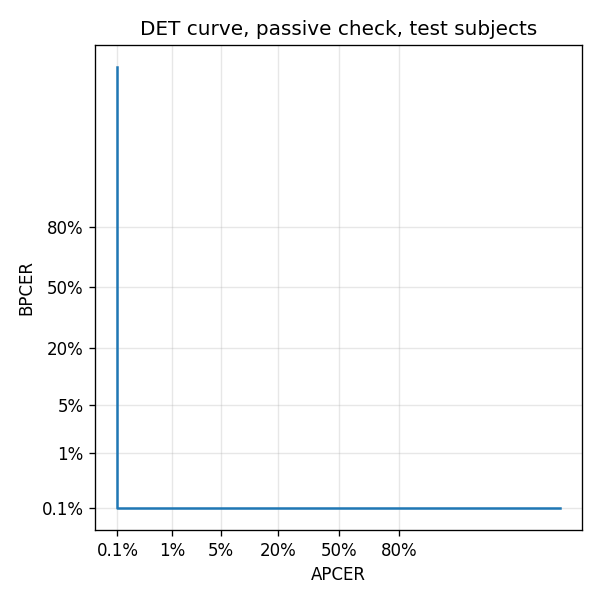
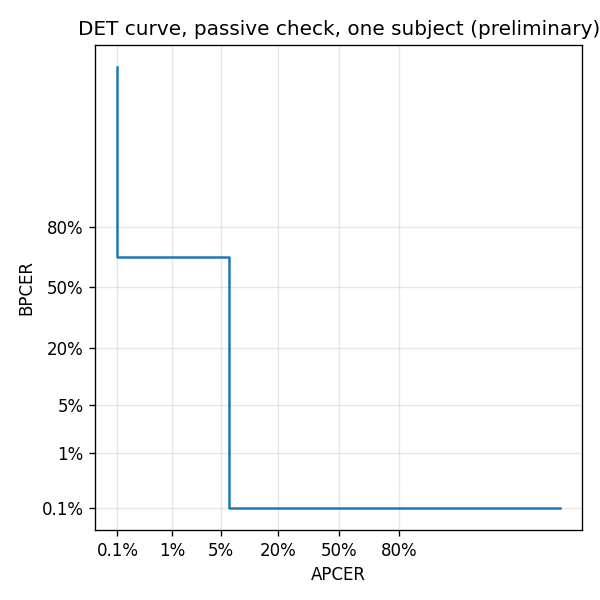
docs: fill the test results with the measures on the first team subject
Single-subject preliminary results of the passive model, the engine-level
PAD campaign, the performance figures and the device scenarios, from the
S10 captures scored and replayed on the machine that recorded them. The
paper mask is reported as a known limitation. The DET title follows
--no-split, and configuration.md names the real source of the defaults.

Changed region(s): [[0.18, 0.42, 0.39, 0.87], [0.12, 0.03, 1.0, 0.06]]

diff --git a/training/scripts/evaluate.py b/training/scripts/evaluate.py
@@ -226,7 +226,7 @@ def equal_error_rate(apcer, bpcer):
     return float((apcer[index] + bpcer[index]) / 2)
 
 
-def plot_det(apcer, bpcer, path):
+def plot_det(apcer, bpcer, path, title="DET curve, passive check, test subjects"):
     import matplotlib
     matplotlib.use("Agg")
     import matplotlib.pyplot as plt
@@ -240,7 +240,7 @@ def plot_det(apcer, bpcer, path):
     axis.set_yticks(norm.ppf(ticks), ["{:g}%".format(t * 100) for t in ticks])
     axis.set_xlabel("APCER")
     axis.set_ylabel("BPCER")
-    axis.set_title("DET curve, passive check, test subjects")
+    axis.set_title(title)
     axis.grid(True, alpha=0.3)
     figure.tight_layout()
     path.parent.mkdir(parents=True, exist_ok=True)
@@ -359,7 +359,8 @@ def main():
     if len(bona) and len(attacks):
         _, apcer_curve, bpcer_curve = det_points(bona, attacks)
         eer = equal_error_rate(apcer_curve, bpcer_curve)
-        plot_det(apcer_curve, bpcer_curve, args.det)
+        title = "DET curve, passive check, " + ("one subject (preliminary)" if args.no_split else "test subjects")
+        plot_det(apcer_curve, bpcer_curve, args.det, title)
         print("DET curve written to {}".format(args.det))
 
     report = {

diff --git a/docs/test-results.md b/docs/test-results.md
@@ -1,6 +1,8 @@
 # Test results
 
-Status on 13 October 2026: skeleton. Nothing has been measured yet. Every value marked "not run" is filled in when the corresponding test is done, following [test-plan.md](test-plan.md). No face image appears in this document.
+Status on 21 October 2026: sections 1, 3, 4 and 5 hold the measures made on the captures of the first team subject (S10, 15 October), with the scores and replays run on the machine that recorded them; only aggregated figures leave that machine. Section 2 and the client-level rows of sections 3 to 5 need the Registration Client signed in to a MOSIP environment: on 21 October the Collab tunnel works and the client starts, but the first sign-in is refused (`KER-SYN-AUTH-001`, machine registration under review by MOSIP). Values marked "not run" are filled in when the test is done, following [test-plan.md](test-plan.md). No face image appears in this document.
+
+**All figures below come from one subject.** They show that the chain works and where it fails; they are not a statistically meaningful error rate. ISO/IEC 30107-3 asks for many subjects and presentation attack instruments before an APCER or a BPCER can be compared with other systems.
 
 ## 1. Passive model on the team dataset
 
@@ -10,62 +12,79 @@ PAD subsystem evaluation (ISO/IEC 30107-3, clause 7.3), computed by `training/sc
 
 | Item | Value |
 | --- | --- |
-| Date | not run |
-| Model set version | not run |
-| Thresholds: pass, attack | not run |
-| Subjects: calibration split, test split | not run |
-| Skin tone bands (MST 1-3, 4-7, 8-10), subjects per band | not run |
-| Cameras and resolutions | not run |
-| Machine for the timings | not run |
+| Date | Captures 15 October 2026, scores computed the same day, evaluation 19 October |
+| Model set version | 1.1.0 (`liveness-engine/src/main/resources/models/models.json`) |
+| Thresholds: pass, attack | 0.85 and 0.30, the defaults of the decision flow, kept (decision of the coordinator on #7, 19 October) |
+| Subjects: calibration split, test split | 1 subject, S10. No held-out subject: `evaluate.py --scores ... --no-split`, figures flagged as preliminary |
+| Skin tone bands (MST 1-3, 4-7, 8-10), subjects per band | Not published: with one subject, the band would describe that person |
+| Cameras and resolutions | Integrated laptop camera, 1280 x 720 requested, 10 frames saved per second |
+| Machine for the timings | Intel Core i7-8550U, 16 GB, Windows 11 Pro, Python 3.10.8 (section 4) |
+| Sequences | 36 of 10 s, about 100 frames each, under the three lighting conditions: 6 `bona_fide`, 3 per attack species, 3 per action. The action sequences are left out of the passive evaluation (a turned head scores low on purpose) and reported in section 1.4 |
 
 ### 1.2 Error rates on the test split
 
 | Type | Sequences | APCER or BPCER | Pass zone | Challenge zone | Attack zone | No decision |
 | --- | --- | --- | --- | --- | --- | --- |
-| `print_matte` | not run | not run | not run | not run | not run | not run |
-| `print_glossy` | not run | not run | not run | not run | not run | not run |
-| `screen_phone` | not run | not run | not run | not run | not run | not run |
-| `screen_laptop` | not run | not run | not run | not run | not run | not run |
-| `replay_video` | not run | not run | not run | not run | not run | not run |
-| `paper_mask` | not run | not run | not run | not run | not run | not run |
-| Highest APCER | | not run | | | | |
-| `bona_fide` (BPCER) | not run | not run | not run | not run | not run | not run |
-| ACER, benchmark figure | | not run | | | | |
+Each sequence is replayed through the passive window of section 4 of the decision flow with the thresholds above; the first decision reached is counted. APCER counts the attacks that end in the pass zone, BPCER the bona fide presentations that end in the attack zone.
 
-DET curve: not run.
+| Type | Sequences | APCER or BPCER | Pass zone | Challenge zone | Attack zone | No decision |
+| --- | --- | --- | --- | --- | --- | --- |
+| `print_matte` | 3 | 0 % | 0 | 0 | 3 | 0 |
+| `print_glossy` | 3 | 0 % | 0 | 0 | 3 | 0 |
+| `screen_phone` | 3 | 0 % | 0 | 0 | 3 | 0 |
+| `screen_laptop` | 3 | 0 % | 0 | 0 | 3 | 0 |
+| `replay_video` | 3 | 0 % | 0 | 0 | 3 | 0 |
+| `paper_mask` | 3 | 33 % (1 of 3) | 1 | 0 | 0 | 2 |
+| Highest APCER | | 33 % (`paper_mask`); 0 % for the five other species | | | | |
+| `bona_fide` (BPCER) | 6 | 0 % | 6 | 0 | 0 | 0 |
+| ACER, benchmark figure | | 17 % with the paper mask, 0 % without | | | | |
+
+Frame scores: median 0.996 for the bona fide frames (0.976 for the lowest sequence), 0.000 for every scored frame of the prints, screens and replayed video, 0.998 for the scored frames of the paper mask. Share of frames that passed the quality checks and received a score: 99 % for the bona fide frames and the prints, 100 % for the phone screen, 54 % for the laptop screen and 37 % for the replayed video (the others rejected for lighting or because no face was found), 15 % for the paper mask (74 % rejected by the head angle check, 6 % with no face found).
+
+**Paper mask: known limitation.** The passive classifier scores a cut-out paper mask worn by another person as a live face. The mask was accepted once (backlight) and stayed without a decision in the two other sequences, where the head angle check rejected most frames. The active check does not stop it either: the wearer blinks and turns the head through the cut-outs. The decision of the coordinator (#7, 19 October) is to report it with its rate, keep the code and thresholds unchanged before the submission, and describe the controls in place and a dedicated mask check as future work in [security-privacy.md](security-privacy.md).
+
+DET curve of the sequence medians, single threshold: [../training/results/chart_det.png](../training/results/chart_det.png). Equal error rate 3 % with the paper mask, 0 % without it (the lowest bona fide median, 0.976, is far above the highest print, screen or video median, 0.000).
 
 ### 1.3 BPCER by condition
 
 | Group | Sequences | BPCER |
 | --- | --- | --- |
-| Light `normal` | not run | not run |
-| Light `low` | not run | not run |
-| Light `backlight` | not run | not run |
-| Skin tone MST 1-3 | not run | not run |
-| Skin tone MST 4-7 | not run | not run |
-| Skin tone MST 8-10 | not run | not run |
+| Light `normal` | 2 | 0 % (median frame score 0.998) |
+| Light `low` | 2 | 0 % (0.997) |
+| Light `backlight` | 2 | 0 % (0.993) |
+| Skin tone MST 1-3 | not run | no subject in this band yet |
+| Skin tone MST 4-7 | not run | the band of the only subject is not published |
+| Skin tone MST 8-10 | not run | the band of the only subject is not published |
 
 ### 1.4 Actions
 
 | Action | Sequences | Detected | Other action detected |
 | --- | --- | --- | --- |
-| `action_blink` | not run | not run | not run |
-| `action_smile` | not run | not run | not run |
-| `action_turn_left` | not run | not run | not run |
-| `action_turn_right` | not run | not run | not run |
+Measured by the coordinator with the Python detectors of `training/liveness/actions.py` on the S10 action sequences (#5, 15 October), and with the engine in section 3.3:
+
+| Action | Sequences | Detected | Other action detected |
+| --- | --- | --- | --- |
+| `action_blink` | 3 | 3 | none |
+| `action_smile` | 3 | 1, with the factor 1.06 on 2 consecutive frames | none |
+| `action_turn_left` | 3 | 3, once performed towards the subject's left | a smile, under 2 conditions of 3 |
+| `action_turn_right` | 3 | 3 | none |
+
+Consequence: `SMILE` was left out of the default challenge types on 16 October (#82); it stays available through `active.challenge_types`. The other factors are those of section 5.3 of the decision flow.
 
 ### 1.5 Time per frame
 
 | Step | Mean time (ms) |
 | --- | --- |
-| Face detection (YuNet) | not run |
-| Landmarks (Face Mesh V2) | not run |
-| Classifiers (two MiniFASNet) | not run |
-| Total | not run |
+| Face detection (YuNet) | 22 to 40, reference figure of `training/README.md` on the same processor |
+| Landmarks (Face Mesh V2) | 14 to 15, same reference |
+| Classifiers (two MiniFASNet) | 11 to 15, same reference |
+| Total | 55.2 over the 3 580 frames of S10: detection, quality checks and the two classifiers, Python, Intel Core i7-8550U. The Java engine: section 4 |
 
 ## 2. Functional test matrix
 
 Cases of [test-plan.md](test-plan.md), section 9 (#27). Workflows: R resident capture, O operator authentication, S supervisor authentication. Online and offline as defined in the plan.
+
+Not run on 21 October: the matrix needs an operator signed in to the Registration Client, and the first sign-in on Collab is refused until MOSIP completes the registration of the machine. The engine behaviour behind F04 to F06 and F09 to F11 is measured on replayed sequences in sections 3 and 5.
 
 | ID | Case | Expected | R online | R offline | O online | O offline | S online | S offline |
 | --- | --- | --- | --- | --- | --- | --- | --- | --- |
@@ -88,56 +107,84 @@ Cases of [test-plan.md](test-plan.md), section 9 (#27). Workflows: R resident ca
 
 Full system evaluation (ISO/IEC 30107-3, clause 7.5), on the complete Registration Client with passive and active checks (#28).
 
+Run on 19 October 2026 at the level of the engine public API: each recorded sequence goes through `LivenessEngine` and a `LivenessSession`, the code the client calls, in real time (frames submitted at their recorded timestamps, so frames are skipped as on a device stream), with `ReplayBenchmarkTest` of `liveness-engine`. The same run through the Registration Client screens waits for the Collab sign-in.
+
 ### 3.1 Context
 
 | Item | Value |
 | --- | --- |
-| Date | not run |
-| Client version, engine version, model set version | not run |
-| Settings different from the defaults | not run |
-| Subjects, attack presenters | not run |
-| Lighting conditions | not run |
-| Cameras, machine | not run |
+| Date | 19 October 2026 |
+| Client version, engine version, model set version | Engine of `main` at 1d95604, model set 1.1.0; client not involved (see above) |
+| Settings different from the defaults | One attempt per sequence. Bona fide and attack sequences: active check disabled, so an ambiguous score would fail rather than go to a challenge. Action sequences: pass threshold 1.0, so that every session goes to the active check, with one challenge of the recorded action |
+| Subjects, attack presenters | 1 subject (S10). Prints, screens and video presented by the subject; paper mask worn by a volunteer who signed the consent form, as no other team member was available (deviation from section 3.2 of the test plan, noted in the local register) |
+| Lighting conditions | `normal`, `low`, `backlight`, one sequence per type and condition |
+| Cameras, machine | Integrated laptop camera; Intel Core i7-8550U, 16 GB, Windows 11 Pro (section 4) |
 
 ### 3.2 Artefact register
 
 | Artefact | Species | Subject | Made with |
 | --- | --- | --- | --- |
-| not run | | | |
+| A01 | Matte print | S10 | Frontal photo of the subject printed on matte paper |
+| A02 | Glossy print | S10 | Same photo printed on glossy paper |
+| A03 | Photo on a phone screen | S10 | Same photo shown full screen on a phone |
+| A04 | Photo on a laptop screen | S10 | Same photo shown full screen on a laptop |
+| A05 | Replayed video | S10 | Short video of the subject played on a phone |
+| A06 | Paper mask | S10 | Matte print with the eyes and mouth cut out, worn by a volunteer |
 
 ### 3.3 Error rates
 
 | Type | Attempts | APCER or BPCER | Challenge rate |
 | --- | --- | --- | --- |
-| `print_matte` | not run | not run | not run |
-| `print_glossy` | not run | not run | not run |
-| `screen_phone` | not run | not run | not run |
-| `screen_laptop` | not run | not run | not run |
-| `replay_video` | not run | not run | not run |
-| `paper_mask` | not run | not run | not run |
-| Highest APCER | | not run | |
-| Bona fide (BPCER) | not run | not run | not run |
-| ACER, benchmark figure | | not run | |
+| Type | Attempts | APCER or BPCER | Challenge rate |
+| --- | --- | --- | --- |
+| `print_matte` | 3 | 0 %, `PAD_ATTACK_DETECTED` in 0.76 to 0.92 s | not applicable, active check disabled for this run |
+| `print_glossy` | 3 | 0 %, detected in 0.83 to 0.92 s | as above |
+| `screen_phone` | 3 | 0 %, detected in 0.77 to 0.92 s | as above |
+| `screen_laptop` | 3 | 0 %, detected in 0.92 to 1.54 s | as above |
+| `replay_video` | 3 | 0 %, detected in 0.86 to 0.93 s | as above |
+| `paper_mask` | 3 | 33 %: passed in 0.91 s under backlight; no decision within the 10 s sequence under normal and low light (still in the passive check) | as above |
+| Highest APCER | | 33 % (`paper_mask`); 0 % for the five other species, 15 of 15 attacks detected | |
+| Bona fide (BPCER) | 3 | 0 %, passed without a challenge in 1.19 to 1.47 s | 0 % |
+| ACER, benchmark figure | | 17 % with the paper mask, 0 % without | |
 
-DET curve: not run.
+Challenges on the bona fide action sequences (one challenge of the recorded action, see the settings):
+
+| Challenge | Attempts | Passed | Failures |
+| --- | --- | --- | --- |
+| `TURN_RIGHT` | 3 | 3, in 4.9 to 6.6 s from the start of the challenge | none |
+| `TURN_LEFT` | 3 | 2, in 4.6 and 7.1 s | backlight: `FACE_CONTINUITY_LOST` after 4.0 s |
+| `BLINK` | 3 | 1, in 3.3 s (backlight) | normal and low light: `CHALLENGE_TIMEOUT` after 8 s |
+
+The two blink timeouts are most likely an effect of the replay rather than of the detector: the subject blinked about 2 s after the start of the recording, as the capture script asks, while the session reaches the challenge only after its passive check and the hold-still phase, about 0.8 s and 0.6 s later; a blink that happens before the instruction is not counted, by design. The Python detectors found the blink in all three sequences when they read them from the start (section 1.4). In the live client the instruction comes first and the person blinks after it.
+
+DET curve: not drawn for this run, which has one attempt per type and condition; see section 1.2.
 
 ## 4. Performance
 
 | Measure | Value |
 | --- | --- |
-| Mean passive decision time | not run |
-| Mean challenge time | not run |
-| Retry rate | not run |
-| Failure rate (bona fide sessions ending in `MAX_ATTEMPTS_EXCEEDED`) | not run |
-| CPU of the client during a session | not run |
-| Memory of the client during a session | not run |
-| Machine: processor, memory, operating system, camera | not run |
+Measured on 19 October 2026 with the run of section 3 (`ReplayBenchmarkTest`, 30 sequences, 551 analysed frames), on the machine that recorded the captures.
+
+| Measure | Value |
+| --- | --- |
+| Mean analysis time of one frame (decode, detection, quality, classifiers, and the landmarks during a challenge) | 56.4 ms over the 551 frames, 54.4 to 59.1 ms per run, against the 100 ms of section 5.3 of the decision flow. The first sequence of each run takes 73 to 114 ms: start of a new JVM |
+| Mean passive decision time | Live face: 1.31 s (1.19 to 1.47 s, 3 sessions). Attack: 0.91 s (0.76 to 1.54 s, 15 sessions) |
+| Mean challenge time | 5.3 s from the start of the challenge to `PASSED` (3.3 to 7.1 s, 6 challenges), hold-still phase included |
+| Retry rate | Not measured: the replay uses one attempt per sequence. Needs client sessions |
+| Failure rate (bona fide sessions ending in `MAX_ATTEMPTS_EXCEEDED`) | Not measured, as above. First-attempt failure of the bona fide replays: 3 of 12, all in challenges (2 replay effects on `BLINK`, 1 `FACE_CONTINUITY_LOST`) |
+| CPU of the client during a session | Engine process during analysis: 1.9 to 3.1 cores of the 8 logical processors (194 to 309 % of one core); about 1 core when most frames are rejected before the classifiers (paper mask) |
+| Memory of the client during a session | Java heap used after each sequence: 22 to 99 MB. The native memory of ONNX Runtime (models and inference buffers) is not included |
+| Machine: processor, memory, operating system, camera | Intel Core i7-8550U (4 cores, 8 threads, 1.8 GHz), 16 GB, Windows 11 Pro 10.0.26300, integrated camera; mains power, Windows power plan "Balanced"; JDK 11.0.32 (Temurin) |
+
+Second machine, for comparison (14 October): Intel Core Ultra 7 155H, 16 GB, Windows 11 Pro, JDK 11, power mode "Best performance", one sample image analysed repeatedly: 60 ms per frame in the passive check, 69 ms during a challenge. With the "Balanced" mode and other applications open, the same machine took 190 and 320 ms: on hybrid processors, Windows can run a background Java process on the efficiency cores. The power mode is worth setting on registration workstations.
+
+The device stream of the simulated device in webcam mode reached 6 to 8 frames per second on the first machine (#17), below the 10 analysed frames per second the engine can handle; the analysis rate then follows the stream.
 
 ## 5. Replay automation and SBI interoperability
 
 | Test | Result |
 | --- | --- |
-| Recorded sequences replayed through the simulated device, decisions identical to the live run | not run |
+| Recorded sequences replayed through the simulated device, decisions identical to the live run | Device side: section 5.1. Engine decisions on the same sequences: section 3. Comparison through the client: not run |
 | Stream of the simulated device received by the client without mirroring | not run |
 | Stream kept running during `RCAPTURE` | not run |
 | Capture response signature validated by the client | not run |
@@ -145,13 +192,30 @@ DET curve: not run.
 
 ### 5.1 Device-level scenarios, automated
 
-`mock-sbi/scripts/replay_scenarios.py` starts the simulated device in `replay` mode on a recorded sequence, calls it as the Registration Client does (MOSIPDINFO, MOSIPDISC, STREAM, RCAPTURE), checks the stream and the capture against the expected behaviour and stops the device, once per SBI specification version and per device configuration. Run of 19 October 2026 on sequences built from the sample images of the reference project (no team capture yet; one image repeated 30 times at 10 frames per second, 3 s long), observation of 6 s, JDK 11, Windows 11:
+`mock-sbi/scripts/replay_scenarios.py` starts the simulated device in `replay` mode on a recorded sequence, calls it as the Registration Client does (MOSIPDINFO, MOSIPDISC, STREAM, RCAPTURE), checks the stream and the capture against the expected behaviour and stops the device, once per SBI specification version and per device configuration, without manual action.
 
-| Scenario | Expected | SBI 0.9.5, recorded timestamps | SBI 0.9.5, 5 frames per second | SBI 1.0, recorded timestamps | SBI 1.0, 5 frames per second |
-| --- | --- | --- | --- | --- | --- |
-| Frozen image (`end=hold`) | frames stop changing, RCAPTURE succeeds | pass | pass | pass | pass |
-| Disconnection (`end=stop`) | stream ends after the sequence | pass | pass | pass | pass |
-| Corrupted frames (`corrupt.every=3`) | incomplete JPEG frames on the stream | pass (31 of 95) | pass | pass | pass |
-| Live face, photo, screen, replayed video, no face, two faces | engine decision on the replayed frames | to run on the team sequences | | | |
+Run of 19 October 2026 on the S10 sequences, on the machine that recorded them (JDK 11, Windows 11), observation of 8 s per run. SBI versions 0.9.5 and 1.0, the two supported by Registration Client 1.2.0.2; device configurations: recorded timestamps, and a fixed 5 frames per second.
 
-The two specification versions supported by Registration Client 1.2.0.2 are echoed in the RCAPTURE response with an ISO/IEC 19794-5 record. The engine decisions on replayed sequences are measured by `ReplayBenchmarkTest` of the engine (section 4) once the team sequences are available.
+| Scenario | Sequence | Expected | 0.9.5, timestamps | 0.9.5, 5 per second | 1.0, timestamps | 1.0, 5 per second |
+| --- | --- | --- | --- | --- | --- | --- |
+| Live face | `bona_fide` | frames change, RCAPTURE returns an ISO/IEC 19794-5 record with the version echoed | pass | pass | pass | pass |
+| Live face, blink challenge | `action_blink` | as above | pass | pass | pass | pass |
+| Photo | `print_matte` | as above | pass | pass | pass | pass |
+| Screen | `screen_phone` | as above | pass | pass | pass | pass |
+| Replayed video | `replay_video` | as above | pass | pass | pass | pass |
+| Corrupted frames | `bona_fide`, every third frame truncated | incomplete JPEG frames on the stream | pass (80 of 240) | pass | pass | pass |
+
+24 of 24 runs passed. The stream carried 208 to 241 frames in 8 s, 80 distinct frames at the recorded timestamps and 40 at 5 per second, as expected from the pacing of section `replay` of `mock-sbi/README.md`.
+
+End of sequence, at 30 frames per second so that the 99-frame sequence ends after 3.3 s, within the observation:
+
+| Scenario | Expected | 0.9.5 | 1.0 |
+| --- | --- | --- | --- |
+| Disconnection (`end=stop`) | the stream ends after the sequence | pass, ended after 3.4 s | pass, ended after 3.4 s |
+| Frozen image (`end=hold`) | the last frame repeats | fail on the verdict, see below | fail on the verdict |
+
+The frozen stream behaved as specified (the last frame kept coming after 3.3 s), but the verdict of that run expected one distinct frame over the whole observation. The review of that run (#29, 19 October) also found that the STREAM request asked for a 10 s timeout, so observations longer than 10 s saw the stream end, and that RCAPTURE still returned a record after `end=stop`. All three are fixed after that run: the verdict now looks at the last 1.5 s of the observation, the STREAM timeout follows the observation, and an unplugged replay refuses the capture. These two end cases are to be run again on the S10 sequences.
+
+"No face" and "two faces" sequences are not part of the capture protocol and were not recorded. Their engine behaviour (guidance `NO_FACE` and `MULTIPLE_FACES`, then `FACE_CONTINUITY_LOST` during a challenge) is covered by the session tests of the engine (`SessionCorePassiveTest`, `SessionCoreActiveTest`, #15).
+
+Earlier run, 19 October, on sequences built from the sample images of the reference project (one image repeated, 3 s long, observation of 6 s, on another machine): frozen image, disconnection and corrupted frames passed for both versions and both configurations, 12 of 12.

diff --git a/docs/configuration.md b/docs/configuration.md
@@ -13,7 +13,7 @@ In Registration Client 1.2.0.2:
 The liveness configuration follows the same path. A small provider in the client (`LivenessConfigProvider`, #21) reads the keys of this document, applies the per-workflow overrides and builds the policy given to the engine.
 
 - **Offline.** The client uses the values of its last synchronisation. Liveness behaves the same online and offline.
-- **Missing key.** On a first installation, or with a server that does not know the keys yet, the engine applies the defaults it ships with (`liveness-defaults.properties` inside the engine JAR, #7). These defaults are the values of the table below.
+- **Missing key.** On a first installation, or with a server that does not know the keys yet, the engine applies the defaults it ships with (`LivenessPolicy.defaults()`, in the engine JAR; the thresholds were confirmed on the team captures in #7). These defaults are the values of the table below.
 - **Invalid value.** A value that cannot be read or breaks a rule of section 3 is ignored. The engine default applies and the client writes a warning to its log, with the key and the value. One exception: a value of `on_max_attempts` that cannot be read gives `BLOCK`, not the default `EXCEPTION` of residents, so that it never opens the exception process. A wrong setting can therefore never weaken liveness below the defaults.
 - **Local override.** Liveness keys should not be added to the list of keys permitted for local change. Otherwise, anyone with access to the settings of a machine could disable liveness or lower its thresholds on that machine ([security-privacy.md](security-privacy.md), section 2.3).
 
